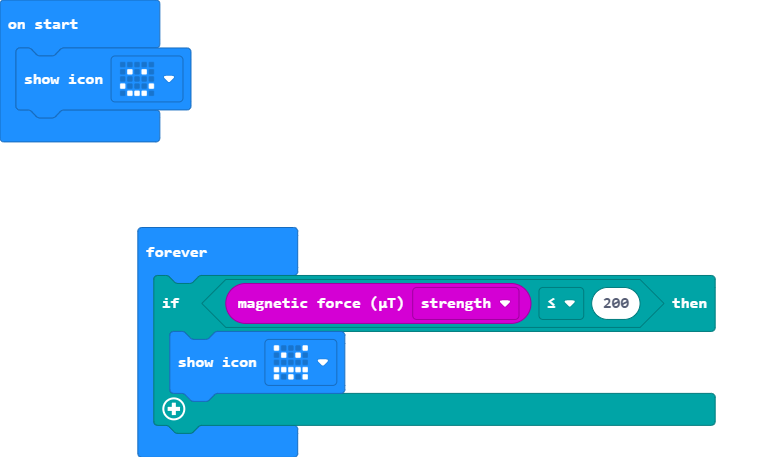
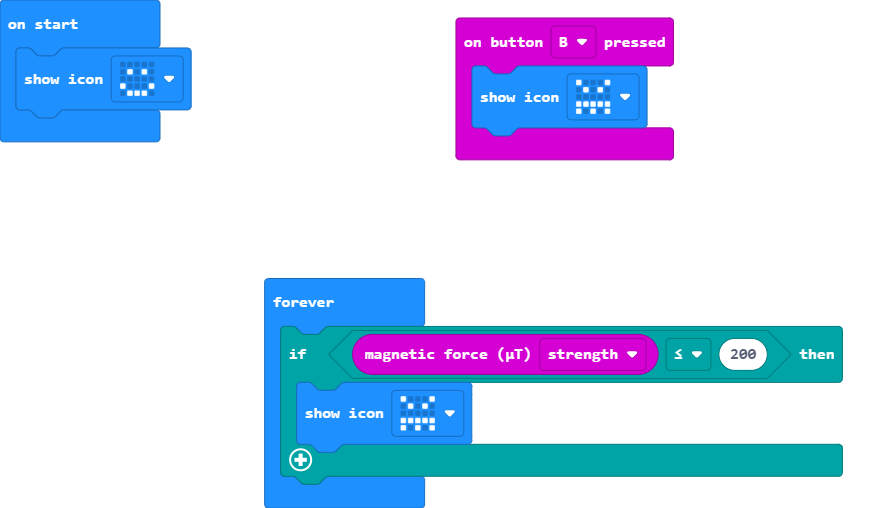
Update main.blocks, main.ts

diff --git a/main.ts b/main.ts
@@ -1,3 +1,6 @@
+input.onButtonPressed(Button.B, function () {
+    basic.showIcon(IconNames.Angry)
+})
 basic.showIcon(IconNames.Happy)
 basic.forever(function () {
     if (input.magneticForce(Dimension.Strength) <= 200) {
